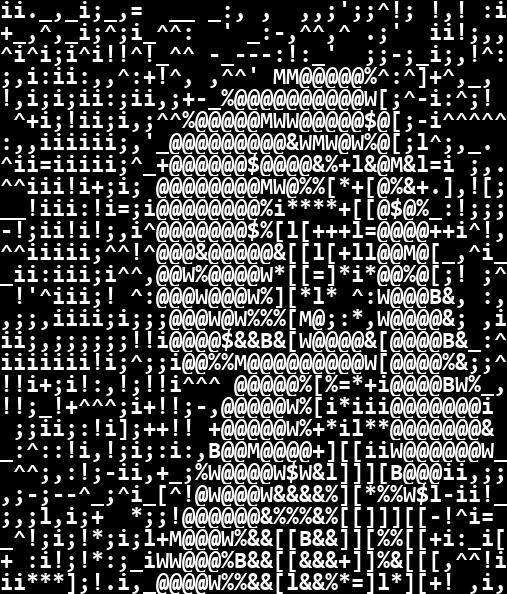
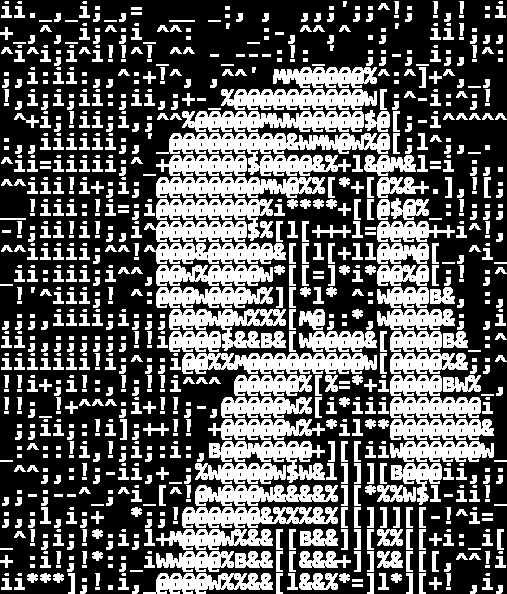
Added smoothing option in depth shade + reworked some docs

diff --git a/src/depth_shade/gradient_writer.py b/src/depth_shade/gradient_writer.py
@@ -15,11 +15,13 @@ from palette_template import PaletteTemplate  # type: ignore
 class GradientWriter:
     def __init__(self,
                  templates: list[PaletteTemplate],
-                 max_workers: int):
+                 max_workers: int,
+                 smoothing: bool):
         self.templates = templates
         self.max_workers = max_workers
         self.gradient_imgs: list[np.ndarray] = []
         self.char_rank: dict[str, int] = dict()
+        self.smoothing = smoothing
 
     def assign_gradient_imgs(self, img_gray: np.ndarray, thresholds_gamma: float):
         self.gradient_imgs = divide(img_gray, len(self.templates), thresholds_gamma)
@@ -28,7 +30,7 @@ class GradientWriter:
         p_ct_lists: list[list[PositionalCharTemplate]] = []
         for i in range(len(self.templates)):
             template = self.templates[i]
-            writer = template.create_writer(self.max_workers)
+            writer = template.create_writer(self.max_workers, self.smoothing)
             img = self.gradient_imgs[i]
             img = invert_image(img)
             slicer = Slicer()
@@ -46,7 +48,7 @@ class GradientWriter:
         result_img = np.zeros((h, w, 3), dtype=np.uint8)
 
         with ThreadPoolExecutor(max_workers=self.max_workers) as executor:
-            list(executor.map(lambda cell: self._paste_to_img(cell, result_img), stacks))
+            list(executor.map(lambda cell: self._paste_to_img(cell, result_img, self.smoothing), stacks))
 
         result_img = invert_image(result_img)
         large_char_bound = self.get_large_char_bound()
@@ -63,12 +65,31 @@ class GradientWriter:
         return result_width, result_height
 
     @staticmethod
-    def _paste_to_img(p_ct: PositionalCharTemplate, result_img: np.ndarray):
-        template = p_ct.char_template.img
+    def _paste_to_img(p_ct: PositionalCharTemplate, result_img: np.ndarray, smoothing: bool):
+        if smoothing:
+            template = p_ct.char_template.img
+        else:
+            template = p_ct.char_template.img_binary
         top_left = p_ct.top_left
-        bottom_right_y = top_left[1] + template.shape[0]
-        bottom_right_x = top_left[0] + template.shape[1]
-        result_img[top_left[1]:bottom_right_y, top_left[0]:bottom_right_x] = template
+        # bottom_right_y = top_left[1] + template.shape[0]
+        # bottom_right_x = top_left[0] + template.shape[1]
+
+        # bottom_right_y = top_left[1] + template.shape[0]
+        # bottom_right_x = top_left[0] + template.shape[1]
+
+        # template: (H, W) or (H, W, 3)
+        h, w = template.shape[:2]
+
+        # ensure template has 3 channels
+        if template.ndim == 2:  # grayscale
+            template_to_paste = np.stack([template] * 3, axis=-1)
+        elif template.ndim == 3 and template.shape[2] == 3:  # already RGB
+            template_to_paste = template
+        else:
+            raise ValueError(f"Unsupported template shape: {template.shape}")
+
+        # paste into result_img
+        result_img[top_left[1]:top_left[1] + h, top_left[0]:top_left[0] + w] = template_to_paste
 
     def stack(self, p_ct_lists: list[list[PositionalCharTemplate]]) -> list[PositionalCharTemplate]:
         self._assign_template_rank()

diff --git a/src/util/arg_util.py b/src/util/arg_util.py
@@ -59,7 +59,8 @@ class ColorArgUtil:
                     ascii_img: np.ndarray,
                     original_img: np.ndarray,
                     cell_size: tuple[int, int],
-                    smoothing=False) -> tuple[np.ndarray, np.ndarray, list[PositionalColor]] | None:
+                    smoothing=False,
+                    invert_ascii=True) -> tuple[np.ndarray, np.ndarray, list[PositionalColor]] | None:
         if ascii_img is None or original_img is None:
             return None
 
@@ -68,17 +69,20 @@ class ColorArgUtil:
                 return ColorArgUtil.color_original(ascii_img,
                                                    original_img,
                                                    cell_size,
-                                                   smoothing)
+                                                   smoothing,
+                                                   invert_ascii)
         return None
 
     @staticmethod
     def color_original(ascii_img: np.ndarray,
                        original_img: np.ndarray,
                        cell_size: tuple[int, int],
-                       smoothing: bool) \
+                       smoothing: bool,
+                       invert_ascii: bool) \
             -> tuple[np.ndarray, np.ndarray, list[PositionalColor]]:
         color_blocks, p_cs = process_image_blocks(original_img, cell_size, average_color_block)
-        ascii_img = invert_image(ascii_img)
+        if invert_ascii:
+            ascii_img = invert_image(ascii_img)
         color_converted = blend_ascii_with_color(ascii_img, color_blocks, 1)
         if smoothing:
             color_converted = blend_pixels(ascii_img, color_converted)

diff --git a/src/depth_shade/depth_shade.py b/src/depth_shade/depth_shade.py
@@ -32,6 +32,7 @@ def main():
     parser.add_argument('--color_option', type=str, default='')
     parser.add_argument('--save_ascii', action='store_true')
     parser.add_argument('--save_ascii_path', type=str, default='./')
+    parser.add_argument('--smoothing', action='store_true')
 
     args = parser.parse_args()
 
@@ -44,7 +45,7 @@ def main():
     img = to_grayscale(img)
     h, w = img.shape[:2]
 
-    gradient_writer = GradientWriter(templates, args.max_workers)
+    gradient_writer = GradientWriter(templates, args.max_workers, args.smoothing)
     gradient_writer.assign_gradient_imgs(img, args.thresholds_gamma)
     converted, p_cts = gradient_writer.match(w, h)
 
@@ -52,7 +53,8 @@ def main():
     color_result = ColorArgUtil.color_image(args.color_option,
                                             converted,
                                             o_img,
-                                            large_char_bound)
+                                            large_char_bound,
+                                            invert_ascii=False)
     color_blocks = None
     p_cs = []
     if color_result is not None:

diff --git a/src/contour_shade/eg_writer.py b/src/contour_shade/eg_writer.py
@@ -15,8 +15,9 @@ from char_template import PositionalCharTemplate  # type: ignore
 class EdgeGradientWriter:
     def __init__(self,
                  templates: list[PaletteTemplate],
-                 max_workers: int):
-        self.gradient_writer = GradientWriter(templates, max_workers)
+                 max_workers: int,
+                 smoothing: bool):
+        self.gradient_writer = GradientWriter(templates, max_workers, smoothing)
 
     def assign_gradient_imgs(self, img_gray: np.ndarray,
                              sigmaX: float,

diff --git a/src/contour_shade/contour_shade.py b/src/contour_shade/contour_shade.py
@@ -49,7 +49,7 @@ def main():
     img = to_grayscale(img)
     h, w = img.shape[:2]
 
-    eg_writer = EdgeGradientWriter(templates, args.max_workers)
+    eg_writer = EdgeGradientWriter(templates, args.max_workers, args.smoothing)
     eg_writer.assign_gradient_imgs(img,
                                     args.sigmaX,
                                     args.thresholds_gamma,

diff --git a/src/depth_shade/README.md b/src/depth_shade/README.md
@@ -13,7 +13,7 @@ Check out the [palette tutorial](../../palette_tut.md).
 3⃣ Execute `depth_shade.py`.
 **Example**:
 ```commandline
-python depth_shade.py --image_path ../../resource/imgs/monalisa.jpg --resize_factor 8
+python depth_shade.py --image_path ../../resource/imgs/monalisa.jpg --resize_factor 4
 ```
 
 **Parameters**
@@ -34,6 +34,7 @@ python depth_shade.py --image_path ../../resource/imgs/monalisa.jpg --resize_fac
 | --color_option     | The option to color the image. Check below for available options.                                                         |
 | --save_ascii       | If included, the characters will be saved to a file.                                                                      |
 | --save_ascii_path  | The path to save the characters. Check out the 'ascii_output' folder for the results.                                     |
+| --smoothing        | If included, retain anti-aliasing of the characters.                                                                      |
 
 **resize_method**
 
